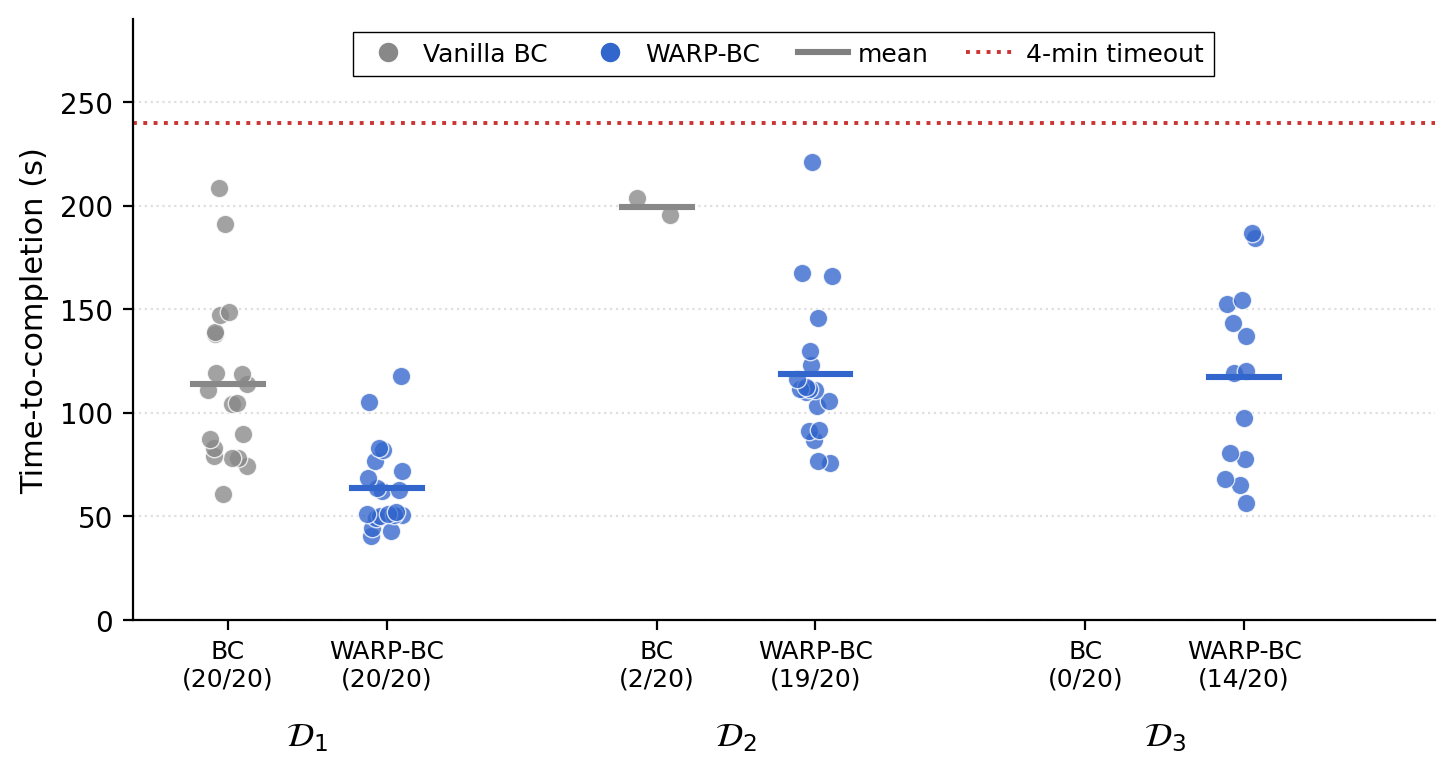
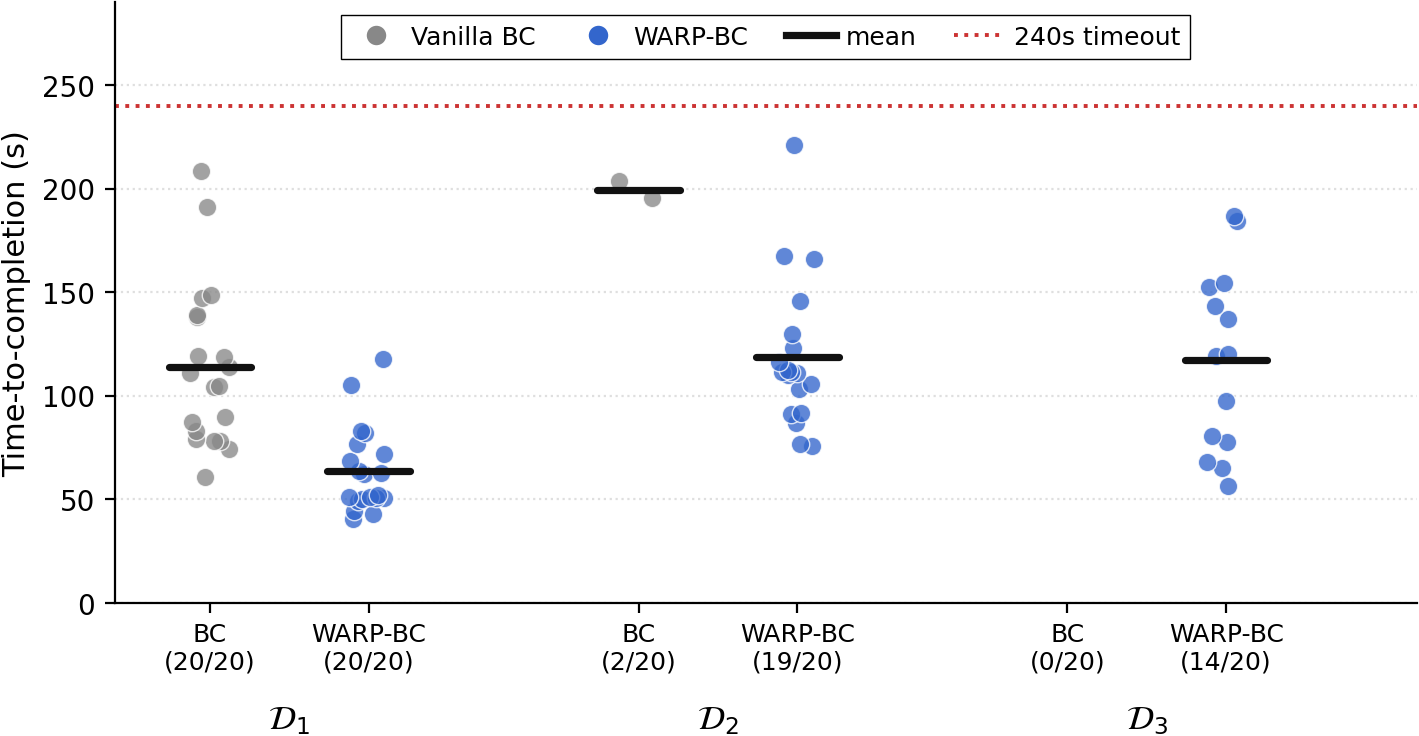
Update tables and figures to match latest CoRL paper
- Refresh TTC distribution and WARP-RM architecture figures
- Cross-tier table: fix vanilla throughput (1.5, 0.0), add Act. Chunks Kept row
- Add DemInf and SCIZOR baselines; reframe baseline comparison section
- Ablations table: add Throughput column
- Add "380 real-world trials" to results intro

diff --git a/index.html b/index.html
@@ -582,10 +582,11 @@
     <section id="results">
       <h1>Real-World Policy Rollouts</h1>
       <p style="color: var(--muted); max-width: 900px;">
-        Each video below shows all <b>20 evaluation trials</b> of T-shirt folding from a crumpled start,
-        played simultaneously in a 4&times;5 grid. Each policy is trained on the same demonstration corpus.
-        WARP-BC consistently completes more folds and completes them faster. Use the selector to switch
-        between the three demonstration tiers from the paper.
+        Across <b>380 real-world trials</b> of T-shirt folding from a crumpled start, WARP-BC
+        consistently completes more folds and completes them faster than vanilla BC trained on the
+        same demonstration corpus. Each video below shows all <b>20 evaluation trials</b> for a tier,
+        played simultaneously in a 4&times;5 grid. Use the selector to switch between the three
+        demonstration tiers from the paper.
       </p>
 
       <div class="tier-selector" id="tier-selector">
@@ -671,8 +672,8 @@
             <b>WARP Reward Model.</b> A window of \(N{=}32\) RGB frames is encoded by frozen DINOv3,
             augmented with per-frame temporal differences, projected to model dimension, and processed
             by a bidirectional transformer. The head emits a 30-bin categorical distribution over
-            cumulative progress at each input frame; per-step velocities
-            \(\hat{v}_j = (N{-}1)(\hat{y}_j - \hat{y}_{j-1})\) are averaged across overlapping
+            cumulative progress at each input frame; per-step intra-window velocities
+            \(v_j = (N{-}1)(\hat{y}_j - \hat{y}_{j-1})\) are averaged across overlapping
             sliding windows to give the dense curve on the left.
           </figcaption>
         </figure>
@@ -716,7 +717,7 @@
           </thead>
           <tbody>
             <tr>
-              <td class="method" rowspan="3">Vanilla BC</td>
+              <td class="method" rowspan="4">Vanilla BC</td>
               <td class="metric-name">Success &uarr;</td>
               <td>20/20</td>
               <td>2/20</td>
@@ -731,11 +732,17 @@
             <tr>
               <td class="metric-name">Throughput (/hr) &uarr;</td>
               <td>31.6</td>
-              <td>1.53</td>
-              <td>N/A</td>
+              <td>1.5</td>
+              <td>0.0</td>
+            </tr>
+            <tr>
+              <td class="metric-name">Act. Chunks Kept</td>
+              <td>100%</td>
+              <td>100%</td>
+              <td>100%</td>
             </tr>
             <tr class="highlight">
-              <td class="method" rowspan="3">WARP-BC (Ours)</td>
+              <td class="method" rowspan="4">WARP-BC (Ours)</td>
               <td class="metric-name">Success &uarr;</td>
               <td class="best">20/20</td>
               <td class="best">19/20</td>
@@ -753,15 +760,25 @@
               <td class="best">27.4</td>
               <td class="best">16.3</td>
             </tr>
+            <tr class="highlight">
+              <td class="metric-name">Act. Chunks Kept</td>
+              <td>35.7%</td>
+              <td>34.4%</td>
+              <td>22.5%</td>
+            </tr>
           </tbody>
         </table>
       </div>
 
-      <h2 style="margin-top: 2rem;">Comparison vs. SARM (human-annotated reward baseline)</h2>
+      <h2 style="margin-top: 2rem;">Matched baseline comparisons</h2>
       <p style="color: var(--muted);">
-        SARM RA-BC requires human-annotated subtask boundaries. D<sub>4</sub> = D<sub>1</sub> &cup; A
-        and D<sub>5</sub> = D<sub>2</sub> &cup; A, where A is the annotated supplement.
-        Despite using no human labels, WARP-BC outperforms SARM on both corpora.
+        Because SARM requires human-annotated subtask boundaries, all methods are evaluated on
+        the augmented corpora D<sub>4</sub> = D<sub>1</sub> &cup; A and
+        D<sub>5</sub> = D<sub>2</sub> &cup; A, where A is the annotated supplement (treated as
+        unlabeled by every method except SARM). WARP-BC sustains the highest throughput on both
+        tiers and ties or leads on success &mdash; without the human labels SARM needs. SARM and
+        SCIZOR collapse on the noisier D<sub>5</sub>, while DemInf stays robust on success but at
+        lower throughput.
       </p>
       <div class="table-wrap">
         <table class="results">
@@ -775,7 +792,7 @@
           </thead>
           <tbody>
             <tr>
-              <td class="method" rowspan="3">SARM RA-BC</td>
+              <td class="method" rowspan="4">SARM</td>
               <td class="metric-name">Success &uarr;</td>
               <td>19/20</td>
               <td>2/20</td>
@@ -790,8 +807,55 @@
               <td>34.9</td>
               <td>1.55</td>
             </tr>
+            <tr>
+              <td class="metric-name">Act. Chunks Kept</td>
+              <td>78.5%</td>
+              <td>66.6%</td>
+            </tr>
+            <tr>
+              <td class="method" rowspan="4">DemInf</td>
+              <td class="metric-name">Success &uarr;</td>
+              <td>19/20</td>
+              <td>18/20</td>
+            </tr>
+            <tr>
+              <td class="metric-name">Mean TTC (s) &darr;</td>
+              <td>89.6</td>
+              <td>115.8</td>
+            </tr>
+            <tr>
+              <td class="metric-name">Throughput (/hr) &uarr;</td>
+              <td>35.2</td>
+              <td>25.3</td>
+            </tr>
+            <tr>
+              <td class="metric-name">Act. Chunks Kept</td>
+              <td>45.6%</td>
+              <td>33.7%</td>
+            </tr>
+            <tr>
+              <td class="method" rowspan="4">SCIZOR</td>
+              <td class="metric-name">Success &uarr;</td>
+              <td>19/20</td>
+              <td>2/20</td>
+            </tr>
+            <tr>
+              <td class="metric-name">Mean TTC (s) &darr;</td>
+              <td>98.4</td>
+              <td>206.2</td>
+            </tr>
+            <tr>
+              <td class="metric-name">Throughput (/hr) &uarr;</td>
+              <td>32.4</td>
+              <td>1.5</td>
+            </tr>
+            <tr>
+              <td class="metric-name">Act. Chunks Kept</td>
+              <td>77.9%</td>
+              <td>66.7%</td>
+            </tr>
             <tr class="highlight">
-              <td class="method" rowspan="3">WARP-BC (Ours)</td>
+              <td class="method" rowspan="4">WARP-BC (Ours)</td>
               <td class="metric-name">Success &uarr;</td>
               <td class="best">20/20</td>
               <td class="best">20/20</td>
@@ -805,6 +869,11 @@
               <td class="metric-name">Throughput (/hr) &uarr;</td>
               <td class="best">50.6</td>
               <td class="best">44.6</td>
+            </tr>
+            <tr class="highlight">
+              <td class="metric-name">Act. Chunks Kept</td>
+              <td>45.6%</td>
+              <td>33.7%</td>
             </tr>
           </tbody>
         </table>
@@ -824,44 +893,45 @@
               <th>Variant</th>
               <th>Success &uarr;</th>
               <th>Mean TTC (s) &darr;</th>
-              <th>Kept Samples</th>
+              <th>Throughput (/hr) &uarr;</th>
+              <th>Act. Chunks Kept</th>
             </tr>
           </thead>
           <tbody>
-            <tr><td colspan="4" style="background:#f7f5ef; text-align:left; font-weight:700; padding-left:1rem;">Weighting function</td></tr>
+            <tr><td colspan="5" style="background:#f7f5ef; text-align:left; font-weight:700; padding-left:1rem;">Weighting function</td></tr>
             <tr>
               <td class="method">&tau; = 0</td>
-              <td>3/20</td><td>201.4</td><td>97.0%</td>
+              <td>3/20</td><td>201.4</td><td>2.3</td><td>97.0%</td>
             </tr>
             <tr>
               <td class="method">&tau; = 1, max = 1 (binary)</td>
-              <td>16/20</td><td>139.6</td><td>34.4%</td>
+              <td>16/20</td><td>139.6</td><td>18.0</td><td>34.4%</td>
             </tr>
             <tr class="highlight">
               <td class="method">&tau; = 1, continuous &mdash; <b>WARP</b></td>
-              <td class="best">19/20</td><td class="best">118.8</td><td>34.4%</td>
+              <td class="best">19/20</td><td class="best">118.8</td><td class="best">27.4</td><td>34.4%</td>
             </tr>
-            <tr><td colspan="4" style="background:#f7f5ef; text-align:left; font-weight:700; padding-left:1rem;">RA-BC aggregation strategy</td></tr>
+            <tr><td colspan="5" style="background:#f7f5ef; text-align:left; font-weight:700; padding-left:1rem;">RA-BC aggregation strategy</td></tr>
             <tr>
               <td class="method">Mean over 1s action chunk</td>
-              <td>15/20</td><td>127.0</td><td>34.0%</td>
+              <td>15/20</td><td>127.0</td><td>17.4</td><td>34.0%</td>
             </tr>
             <tr>
               <td class="method">Mean over 1s, one-chunk offset</td>
-              <td>14/20</td><td>124.2</td><td>34.3%</td>
+              <td>14/20</td><td>124.2</td><td>15.9</td><td>34.3%</td>
             </tr>
             <tr class="highlight">
               <td class="method">Terminal \(\hat{v}_{end}\) &mdash; <b>WARP</b></td>
-              <td class="best">19/20</td><td class="best">118.8</td><td>34.4%</td>
+              <td class="best">19/20</td><td class="best">118.8</td><td class="best">27.4</td><td>34.4%</td>
             </tr>
-            <tr><td colspan="4" style="background:#f7f5ef; text-align:left; font-weight:700; padding-left:1rem;">WARP sampler</td></tr>
+            <tr><td colspan="5" style="background:#f7f5ef; text-align:left; font-weight:700; padding-left:1rem;">WARP sampler</td></tr>
             <tr>
               <td class="method">IID log-normal</td>
-              <td>18/20</td><td>131.0</td><td>28.7%</td>
+              <td>18/20</td><td>131.0</td><td>22.8</td><td>28.7%</td>
             </tr>
             <tr class="highlight">
               <td class="method">AR(1) process &mdash; <b>WARP</b></td>
-              <td class="best">19/20</td><td class="best">118.8</td><td>34.4%</td>
+              <td class="best">19/20</td><td class="best">118.8</td><td class="best">27.4</td><td>34.4%</td>
             </tr>
           </tbody>
         </table>